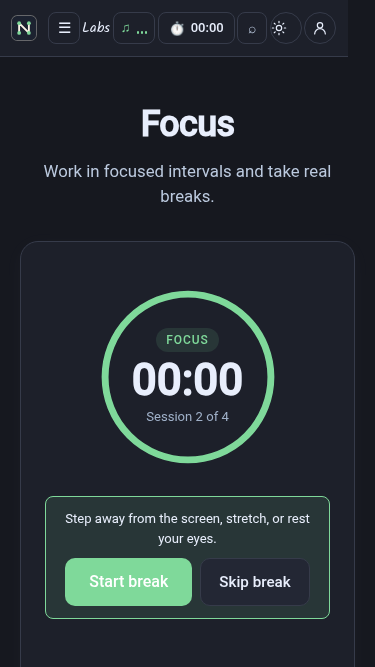
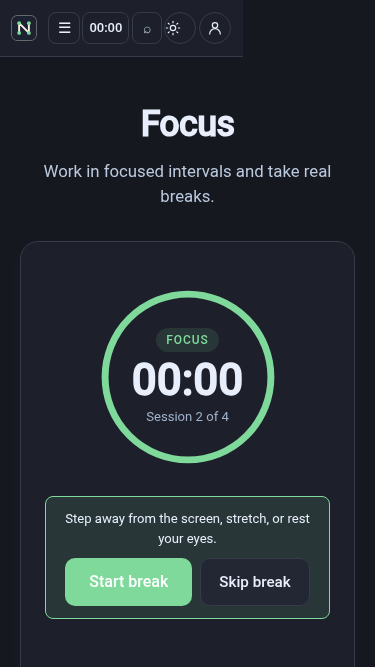
fix(focus): fit mobile timer controls and repair CI reload coverage

diff --git a/tests/focus-timer.spec.ts b/tests/focus-timer.spec.ts
@@ -6,7 +6,7 @@ const EVIDENCE_DIR = join(process.cwd(), 'docs', 'evidence', 'focus');
 
 test.describe('Focus Pomodoro Timer E2E', () => {
   test.use({
-    baseURL: process.env.PLAYWRIGHT_BASE_URL || 'http://localhost:5173',
+    baseURL: process.env.PLAYWRIGHT_BASE_URL || 'http://localhost:4173',
   });
 
   test.beforeAll(() => {
@@ -136,14 +136,47 @@ test.describe('Focus Pomodoro Timer E2E', () => {
     await page.screenshot({ path: join(EVIDENCE_DIR, 'navbar-mobile-375-dark.png'), clip: { x: 0, y: 0, width: 375, height: 80 } });
   });
 
+  for (const width of [320, 375]) {
+    test(`mobile timer fits routes at ${width}px idle, running and paused`, async ({ page }) => {
+      await page.setViewportSize({ width, height: 800 });
+      for (const route of ['/focus', '/learn', '/labs', '/interview', '/progress', '/docs/deep-learning/attention-transformers']) {
+        await page.goto(route);
+        await expect(page.locator('.nm-navbar-header')).toBeVisible();
+        const measure = async () => {
+          await page.evaluate(() => document.fonts.ready);
+          expect(await page.evaluate(() => document.documentElement.scrollWidth)).toBe(width);
+          const bounds = await page.locator('.nm-navbar-nav').boundingBox();
+          expect(bounds!.x + bounds!.width).toBeLessThanOrEqual(width);
+        };
+        await measure();
+        await page.getByRole('button', { name: 'Open menu', exact: true }).click();
+        await page.getByRole('button', { name: 'Start focus timer', exact: true }).filter({ visible: true }).click();
+        const popover = await page.locator('.nm-timer-popover').boundingBox();
+        expect(popover!.x).toBeGreaterThanOrEqual(0);
+        expect(popover!.x + popover!.width).toBeLessThanOrEqual(width);
+        await page.locator('.nm-timer-popover').getByRole('button', { name: /start/i }).first().click();
+        await page.getByRole('button', { name: 'Close focus timer', exact: true }).click();
+        await page.getByRole('button', { name: 'Close menu', exact: true }).click();
+        await measure();
+        await page.locator('.nm-navbar-nav .nm-timer-nav-btn').click();
+        await page.getByRole('button', { name: /pause/i }).filter({ visible: true }).first().click();
+        await page.keyboard.press('Escape');
+        await measure();
+        await page.evaluate(() => localStorage.removeItem('nm_focus_timer_state'));
+      }
+    });
+  }
+
   test('reload after endsAt has passed: session saved exactly once with time up to endsAt only', async ({ page }) => {
     const startTime = new Date('2026-11-09T14:00:00.000Z');
     await page.clock.install({ time: startTime });
     await page.goto('/focus');
     await page.getByRole('button', { name: /start 25m focus/i }).click();
 
-    // Fast-forward 30 minutes (5 minutes past endsAt) then reload
-    await page.clock.fastForward(30 * 60 * 1000);
+    // Move wall time without firing interval callbacks: the persisted timer is
+    // still running and unsaved when a real document reload discovers expiry.
+    await page.clock.setSystemTime(new Date(startTime.getTime() + 30 * 60 * 1000));
+    expect(await page.evaluate(() => JSON.parse(localStorage.getItem('nm_focus_sessions') || '[]'))).toEqual([]);
     await page.reload();
     await page.waitForLoadState('domcontentloaded');
 
@@ -158,6 +191,7 @@ test.describe('Focus Pomodoro Timer E2E', () => {
 
     // Another reload does not duplicate session
     await page.reload();
+    await expect(page.locator('.nm-focus-metrics-grid')).toContainText('1 session');
     const sessionsAfter = await page.evaluate(() => JSON.parse(localStorage.getItem('nm_focus_sessions') || '[]'));
     expect(sessionsAfter.length).toBe(1);
   });

diff --git a/src/components/focus-timer/focusTimer.css b/src/components/focus-timer/focusTimer.css
@@ -410,3 +410,22 @@
     transition: none !important;
   }
 }
+
+/* Secondary controls stay available in the site menu on narrow screens.
+   Reserve room for the live countdown, including on lesson pages with Topics. */
+@media (max-width: 560px) {
+  .nm-navbar-nav > .nm-timer-control-wrapper.is-idle { display: none; }
+  .nm-navbar-nav > .nm-practice-link,
+  .nm-navbar-nav > .nm-focus-control-wrapper { display: none !important; }
+  .nm-navbar-nav .nm-timer-nav-btn { padding-inline: 6px; gap: 4px; }
+  .nm-navbar-nav .nm-timer-nav-icon { display: none; }
+  .nm-timer-popover {
+    position: fixed;
+    top: 72px;
+    left: 12px;
+    right: 12px;
+    width: auto;
+    max-height: calc(100dvh - 84px);
+    overflow-y: auto;
+  }
+}

diff --git a/src/components/ProgressPage.tsx b/src/components/ProgressPage.tsx
@@ -199,7 +199,7 @@ export default function ProgressPage() {
         <div
           style={{
             display: 'grid',
-            gridTemplateColumns: 'repeat(auto-fit, minmax(340px, 1fr))',
+            gridTemplateColumns: 'repeat(auto-fit, minmax(min(100%, 340px), 1fr))',
             gap: 20,
             marginBottom: '2.5rem',
           }}

diff --git a/src/components/focus-timer/FocusTimerControl.tsx b/src/components/focus-timer/FocusTimerControl.tsx
@@ -21,7 +21,7 @@ export default function FocusTimerControl() {
   const phaseText = isBreak ? 'Break' : 'Focus';
 
   return (
-    <div className="nm-timer-control-wrapper">
+    <div className={`nm-timer-control-wrapper${isIdle ? " is-idle" : ""}`}>
       <button
         type="button"
         className={`nm-timer-nav-btn ${statusClass}`}

diff --git a/AGENT_TRACKER.md b/AGENT_TRACKER.md
@@ -103,3 +103,4 @@ Before writing any code or making edits:
 | `2026-11-09T12:34:26+05:30` | `Codex` | `software-system-design` | Title hooks/helper, ChooserPage, index.html, title tests, deploy workflow | Fix repeated title branding and investigate duplicate workflow_run deploys | `COMPLETED` | Typecheck and 21 targeted Vitest tests passed; tracker and diff checks passed; actionlint passed except unsupported queue key (documented by current GitHub docs) | Title commit `5c1ec473`; workflow fix in this commit. Successful Deploy 42576649312 downloaded artifact from CI 42575901696 (1ee52e23, success at 07:01:21Z). Skipped Deploy 42576676087 at 07:01:38Z follows failed CI 42575526500 (4778e052, ended 07:01:36Z); workflow_run headSha displays default-branch SHA. Workflow-level queue could evict valid pending runs. Moved queue to eligible deploy job, queue max preserves pending jobs, post-queue main-SHA guard rejects stale automatic deployments; manual override retained. Guard tests cover current/stale/manual/API failure. Prerender snapshots React titles; sitemap contains no titles. User excludes full suites, links, build, browser and Playwright; no push or live deployment validation. |
 | `2026-11-09T11:36:00+05:30` | `Antigravity` | `interview-speech-test` | `src/lib/focusTimer.ts`, `src/contexts/FocusTimerContext.tsx`, `src/components/`, `src/App.tsx`, `tests/focus-timer.spec.ts`, `docs/evidence/focus/` | Build Pomodoro focus timer, FocusTimerContext, navbar control, /focus page, /progress integration, and tests per docs/briefs/pomodoro-focus.md | `COMPLETED` | Typecheck, Links, 27 scoped tests, Playwright focus-timer 1/1 (Passed) | Completed all items in docs/briefs/pomodoro-focus.md in 6 atomic commits (`ac81aa35`..`5c8c152c`): pure timer logic with timestamp arithmetic & 60s background away rule, FocusTimerContext with Web Audio chime, FocusTimerControl in navbar and mobile drawer, /focus route with presets and statistics (7-day bar, 12-week heatmap, section breakdown), /progress card, JSON backup/restore verification, and responsive screenshots (375px & 1440px in light/dark) in docs/evidence/focus/. Zero push, heavy build omitted per brief 8GB rule. |
 | `2026-11-09T12:12:00+05:30` | `Antigravity` | `interview-speech-test` | `src/contexts/FocusTimerContext.tsx`, `src/lib/focusTimer.ts`, `src/components/focus/FocusPage.tsx`, `src/components/focus/focusPage.css`, `src/components/focus-timer/focusTimer.css`, `tests/focus-timer.spec.ts`, `docs/evidence/focus/` | Execute docs/briefs/pomodoro-focus-fixes.md: remote session merge/retry, dark mode contrast, token colors, copy, phase-end deduplication, midnight boundary stats & tests, screenshot recapture | `COMPLETED` | Layer 1 Typecheck exit 0, Layer 2 Links exit 0, Layer 3 Vitest 28/28 passed, Playwright E2E 2/2 passed (Passed) | Commit `bd63013d`. Fixed all items in docs/briefs/pomodoro-focus-fixes.md: 1) Cross-device sync in recordSession with mergeFocusSessions and pending retry queue; added dual-device survival and retry tests. 2) Dark mode contrast resolved: preset tab (Light 5.27:1, Dark 9.51:1), Focus music button (Light 10.79:1, Dark 13.98:1), toggle track & thumb (Light 6.31:1, Dark 10.38:1) matching origin/main. 3) Replaced hardcoded hex colors with theme tokens. 4) Updated /focus copy to 'Work in focused intervals and take real breaks.' without 'momentum'. 5) Deduplicated phase-end chime/notification/save with ref and synchronous initialization capping focused time strictly up to endsAt. 6) Midnight splitting rule: sessions crossing local 00:00 split proportionally across days based on elapsed time ratio before/after midnight. 7) Re-captured all 8 responsive screenshots in docs/evidence/focus/ with real stats. No push. |
+| `2026-11-09T13:20:00+05:30` | `Codex` | `interview-stt` | Navbar/timer responsive CSS and controls; tests/focus-timer.spec.ts | Fix f1cee85d CI failures and verify real expired reload and mobile widths | `BLOCKED` | Typecheck, Links, MDX 1993, 30 scoped unit tests, 4 focus browser tests and mobile smoke passed; production build blocked by 2 GB available RAM | Merged origin/main f1cee85d. Fixed navbar/popover and 320px progress grid; exactly-once expired reload verified. Built-site verification deferred; brief excludes full suites. No push. |

diff --git a/docs/evidence/focus/ci-fix-verification.md b/docs/evidence/focus/ci-fix-verification.md
@@ -1,0 +1,18 @@
+# Focus timer CI repair
+
+Merged origin/main at f1cee85d. CI run 42579232631 failed both focus tests with ERR_CONNECTION_REFUSED at localhost:5173; CI serves dist through scripts/static-server.cjs at 4173. The spec now defaults to that port and accepts PLAYWRIGHT_BASE_URL for development.
+
+The navbar overflow was a product issue. On narrow screens idle timer, music and Labs are available in the site menu; the running/paused countdown remains in the row. Mobile timer popovers now stay within the viewport and scroll vertically. The 320px progress grid also needed its 340px minimum column width capped to its container.
+
+Measured on Vite, Chromium, one worker:
+
+- Four focus tests passed (52.1s).
+- Six routes: /focus, /learn, /labs, /interview, /progress, /docs/deep-learning/attention-transformers.
+- At 320px and 375px, document scrollWidth equals viewport width, with navbar bounds inside viewport, in idle/running/paused states.
+- Real expired reload: change wall clock without firing timer callbacks, assert no saved sessions, reload document, assert one session with 1500 seconds, reload again, assert still one session.
+- Typecheck, internal links, MDX compile (1993 files), and 30 focused unit tests (including ProgressPage) passed.
+- Updated 375px light/dark focus and navbar screenshots; desktop screenshots unchanged.
+
+No fresh build, Pagefind, production-server browser checks or full unit suite: free -g showed 2 GB available (later 1 GB), below the required 5 GB build threshold. There was no dist in this worktree. The Pomodoro brief was read from ../platform-vite-interview/docs/briefs/pomodoro-focus.md because this worktree does not contain it; its delivery section requests targeted tests only. No push.
+
+Final regression pass: mobile popover bounds at both widths and the unchanged mobile-navigation smoke test all passed (3 tests, 33.7s).
